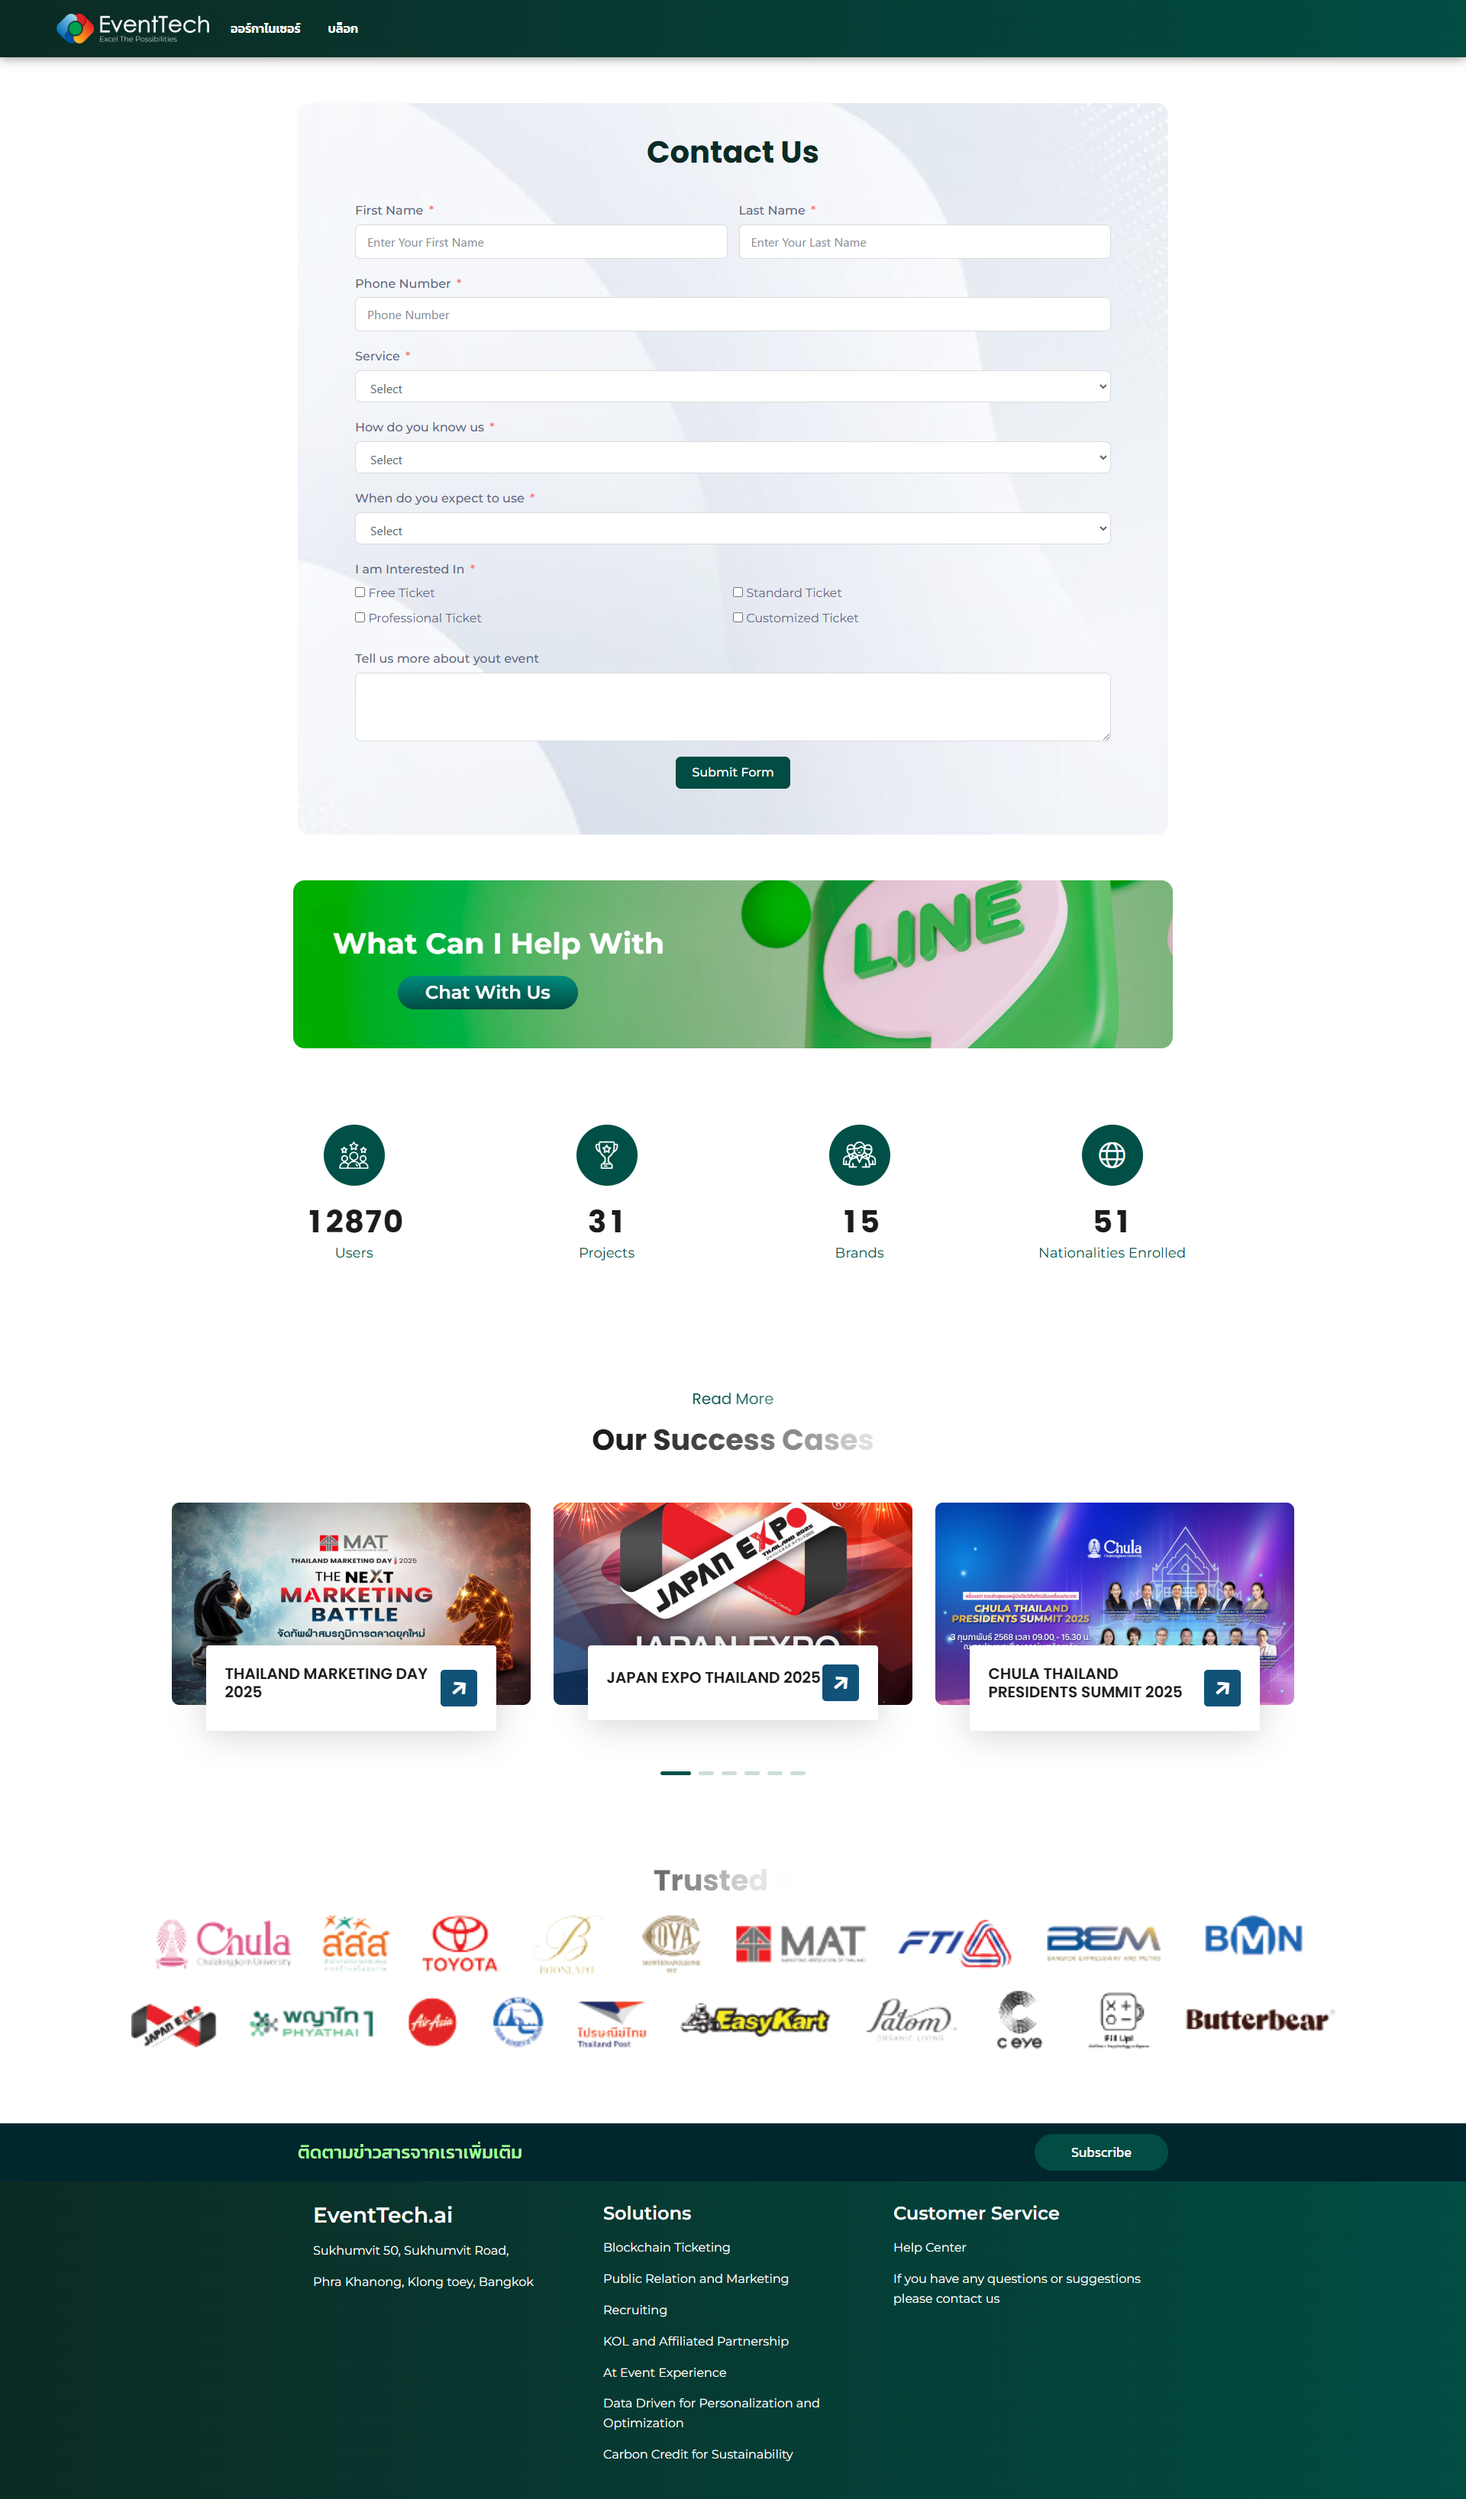
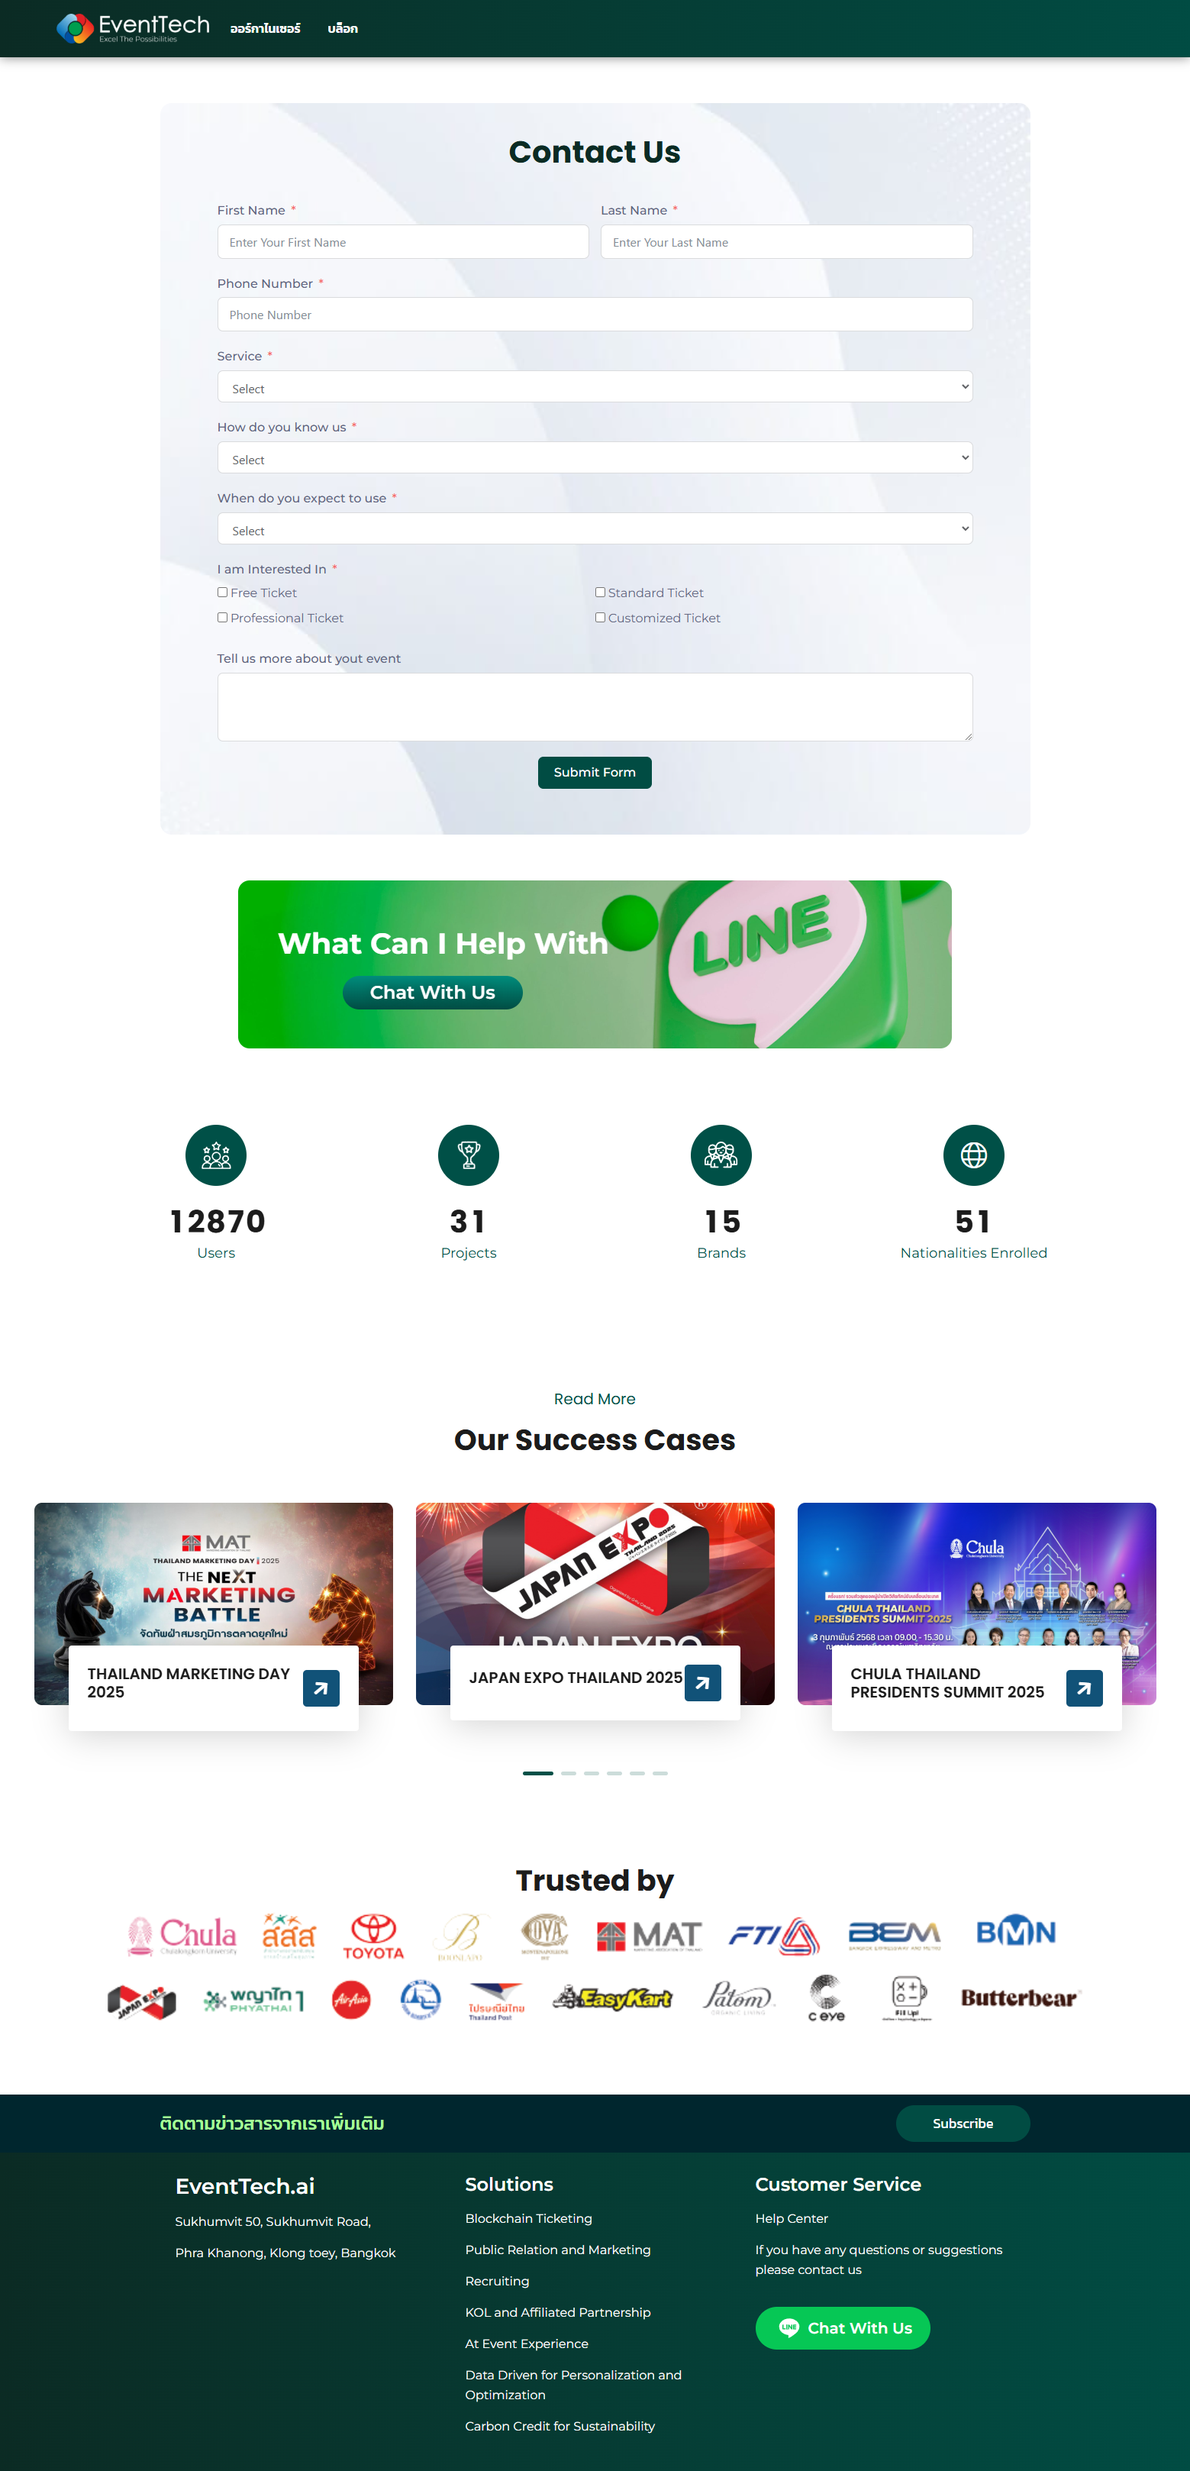
edit landing page and add a my experience component

diff --git a/src/app/components/MyExperiences.tsx b/src/app/components/MyExperiences.tsx
@@ -1,0 +1,150 @@
+import Link from "next/link";
+import React from "react";
+
+const MyExperiences = () => {
+  return (
+    <div className="bg-base-200">
+      <div className="container mx-auto flex flex-col justify-center items-center py-10 sm:py-20">
+        <h2 className="text-3xl text-center">My Experiences</h2>
+        
+        <div className="capitalize space-y-6 my-6">
+          <div className="bg-white w-[800px] flex flex-col justify-center items-center rounded-2xl py-4">
+            <p className="text-xl mb-2">Work with TGP Eventtech.ai</p>
+            <ul className="list-disc list-inside">
+              <li>wordpress for Koh Mak</li>
+              <li>bepeerapat 20th</li>
+              <li>
+                SEO for Whiteroom.ai :{" "}
+                <Link
+                  className="text-blue-600"
+                  href={"https://whiteroom.ai/"}
+                  target="_blank"
+                >
+                  Whiteroom.ai
+                </Link>
+              </li>
+              <li>
+                wordpress for eventtech contact form :{" "}
+                <Link
+                  className="text-blue-600"
+                  href={"https://inquiry.eventtech.ai/"}
+                  target="_blank"
+                >
+                  contact form - eventtech.ai
+                </Link>
+              </li>
+
+              <li>
+                wordpress for ticket protect :{" "}
+                <Link
+                  className="text-blue-600"
+                  href={"https://ticketprotect.eventtech.ai/"}
+                  target="_blank"
+                >
+                  ticket protect.ai
+                </Link>
+              </li>
+              <li>
+                wordpress for shop eventtech :{" "}
+                <Link
+                  className="text-blue-600"
+                  href={"https://shop.eventtech.ai/"}
+                  target="_blank"
+                >
+                  shop eventtech.ai
+                </Link>
+              </li>
+              <li>
+                touchpoint groups :{" "}
+                <Link
+                  className="text-blue-600"
+                  href={"https://touchpointgroups.com/"}
+                  target="_blank"
+                >
+                  touchpoint groups
+                </Link>
+              </li>
+            </ul>
+          </div>
+          <div className="bg-white w-[800px] flex flex-col justify-center items-center rounded-2xl py-4">
+            <p className="text-xl mb-2">Previously developed projects</p>
+            <ul className="list-disc list-inside">
+              <li>
+                TechVibe: an Academic Weblog Platform{" "}
+                <Link
+                  className="text-blue-600"
+                  href={"https://github.com/msssrp/tech-vibe.git"}
+                  target="_blank"
+                >
+                  Github
+                </Link>
+              </li>
+              <li>
+                Web application for Purchasing Music Equipment :{" "}
+                <Link
+                  className="text-blue-600"
+                  href={"https://github.com/entsrkk/Mini-Project.git"}
+                  target="_blank"
+                >
+                  Github
+                </Link>
+              </li>
+              <li>
+                MERN SeShop :{" "}
+                <Link
+                  className="text-blue-600"
+                  href={"https://github.com/entsrkk/MERN_SeShop.git"}
+                  target="_blank"
+                >
+                  github
+                </Link>
+              </li>
+              <li>
+                MERN Blog :{" "}
+                <Link
+                  className="text-blue-600"
+                  href={"https://github.com/entsrkk/MERNBlog.git"}
+                  target="_blank"
+                >
+                  github
+                </Link>
+              </li>
+              <li>
+                MERN Chat :{" "}
+                <Link
+                  className="text-blue-600"
+                  href={"https://github.com/entsrkk/MERN_Chat.git"}
+                  target="_blank"
+                >
+                  github
+                </Link>
+              </li>
+              <li>
+                Blockchain for buy Pokemon :{" "}
+                <Link
+                  className="text-blue-600"
+                  href={"https://blockchain-beige.vercel.app/"}
+                  target="_blank"
+                >
+                  blockchain
+                </Link>
+              </li>
+              <li>
+                Web application for product location search :{" "}
+                <Link
+                  className="text-blue-600"
+                  href={"https://project-phi-red.vercel.app/"}
+                  target="_blank"
+                >
+                  product location search
+                </Link>
+              </li>
+            </ul>
+          </div>
+        </div>
+      </div>
+    </div>
+  );
+};
+
+export default MyExperiences;

diff --git a/src/app/components/TechStackCarousel.tsx b/src/app/components/TechStackCarousel.tsx
@@ -14,26 +14,15 @@ import Image from "next/image";
 
 const TechStackCarousel: React.FC = () => {
   return (
-    <div className="bg-gradient-to-r from-blue-600 to-sky-600">
-      <div className="container mx-auto flex justify-center items-center py-10">
-        <div className="flex flex-wrap justify-center items-center gap-8 sm:gap-10 lg:px-28 xl:px-44">
+    <div className="bg-gradient-to-r from-blue-600 to-sky-600 ">
+      <div className="container mx-auto flex flex-col justify-center items-center py-12">
+        <h2 className="text-3xl text-white text-center">Technologies I use</h2>
+        <div className="flex flex-wrap justify-center items-center gap-6 sm:gap-8 lg:px-28 xl:px-40  sm:mt-2 ">
           <div>
-            <FaHtml5 className="text-4xl sm:text-6xl text-white" />
+            <FaReact className="text-3xl sm:text-5xl text-white hover:scale-[1.4] duration-300" />
           </div>
           <div>
-            <FaCss3 className="text-4xl sm:text-6xl text-white" />
-          </div>
-          <div>
-            <FaJs className="text-4xl sm:text-6xl text-white" />
-          </div>
-          <div>
-            <SiTypescript className="text-4xl sm:text-6xl text-white" />
-          </div>
-          <div>
-            <FaReact className="text-4xl sm:text-6xl text-white" />
-          </div>
-          <div>
-            <SiVite className="text-4xl sm:text-6xl text-white" />
+            <SiVite className="text-3xl sm:text-5xl text-white hover:scale-[1.4] duration-300" />
           </div>
           <div>
             <Image
@@ -41,32 +30,35 @@ const TechStackCarousel: React.FC = () => {
               alt="Next.js"
               width={96}
               height={96}
-              className="sm:w-24 sm:h-24 select-none"
+              className="w-20 h-20 sm:w-24 sm:h-24 select-none hover:scale-[1.4] duration-300"
             />
           </div>
           <div>
-            <FaWordpress className="text-4xl sm:text-6xl text-white" />
+            <FaWordpress className="text-3xl sm:text-5xl text-white hover:scale-[1.4] duration-300" />
           </div>
           <div>
-            <SiTailwindcss className="text-4xl sm:text-6xl text-white" />
+            <SiTailwindcss className="text-3xl sm:text-5xl text-white hover:scale-[1.4] duration-300" />
           </div>
           <div>
-            <SiMantine className="text-4xl sm:text-6xl text-white" />
+            <SiMantine className="text-3xl sm:text-5xl text-white hover:scale-[1.4] duration-300" />
           </div>
           <div>
-            <SiNextui className="text-4xl sm:text-6xl text-white" />
+            <SiNextui className="text-3xl sm:text-5xl text-white hover:scale-[1.4] duration-300" />
           </div>
           <div>
-            <SiRedux className="text-4xl sm:text-6xl text-white" />
+            <SiRedux className="text-3xl sm:text-5xl text-white hover:scale-[1.4] duration-300" />
           </div>
           <div>
-            <SiMysql className="text-4xl sm:text-6xl text-white" />
+            <SiTypescript className="text-3xl sm:text-5xl text-white hover:scale-[1.4] duration-300" />
           </div>
           <div>
-            <SiPostgresql className="text-4xl sm:text-6xl text-white" />
+            <SiMysql className="text-3xl sm:text-5xl text-white hover:scale-[1.4] duration-300" />
           </div>
           <div>
-            <SiMongodb className="text-4xl sm:text-6xl text-white" />
+            <SiPostgresql className="text-3xl sm:text-5xl text-white hover:scale-[1.4] duration-300" />
+          </div>
+          <div>
+            <SiMongodb className="text-3xl sm:text-5xl text-white hover:scale-[1.4] duration-300" />
           </div>
         </div>
       </div>

diff --git a/src/app/components/MyProjects.tsx b/src/app/components/MyProjects.tsx
@@ -31,15 +31,19 @@ const MyProjects = () => {
   }, []);
 
   return (
-    <div data-aos="fade-up" data-aos-duration="1500" className="container mx-auto">
+    <div
+      data-aos="fade-up"
+      data-aos-duration="1500"
+      className="container mx-auto"
+    >
       <div className="mb-8">
-        <h2 className="text-5xl font-bold text-center">My Project</h2>
+        <h2 className="text-4xl text-center">My Project</h2>
       </div>
-      <div  className="flex justify-center items-center">
+      <div className="flex justify-center items-center">
         <div className="grid grid-cols-1 gap-6 sm:grid-cols-2 xl:grid-cols-3">
           {projects.map((project) => (
             <div key={project.project_id}>
-              <div className="card bg-base-200 w-80 lg:w-96 shadow-xl border ">
+              <div className="card bg-base-200 w-80 lg:w-96 shadow-xl border hover:scale-[1.02] duration-300">
                 <figure>
                   <Image
                     width={500}
@@ -50,12 +54,12 @@ const MyProjects = () => {
                   />
                 </figure>
                 <div className="card-body">
+                  <div className="badge bg-base-300 text-sm py-3 capitalize">
+                    {project.project_tag}
+                  </div>
                   <h2 className="card-title capitalize">
                     {project.project_name}
                   </h2>
-                  <div className="badge badge-neutral px-4 py-3 capitalize">
-                    {project.project_tag}
-                  </div>
                 </div>
               </div>
             </div>

diff --git a/src/app/home/page.tsx b/src/app/home/page.tsx
@@ -4,6 +4,7 @@ import Image from "next/image";
 import { TypeAnimation } from "react-type-animation";
 import TechStackCarousel from "../components/TechStackCarousel";
 import MyProjects from "../components/MyProjects";
+import MyExperiences from "../components/MyExperiences";
 
 const Homepage = () => {
   return (
@@ -40,6 +41,9 @@ const Homepage = () => {
       </div>
       <div className="container mx-auto my-10 sm:my-20">
         <MyProjects />
+      </div>
+      <div>
+        <MyExperiences />
       </div>
     </>
   );

diff --git a/src/app/components/Navbar.tsx b/src/app/components/Navbar.tsx
@@ -11,14 +11,8 @@ const Navbar: React.FC = () => {
               Home
             </Link>
             <Link href="/resume" className="sm:px-4">Resume</Link>
-            <Link href="/" className="sm:px-4">Services</Link>
           </div>
         </div>
-        {/* <div>
-          <a className="btn" href="/">
-            Contact
-          </a>
-        </div> */}
       </div>
     </div>
   );
